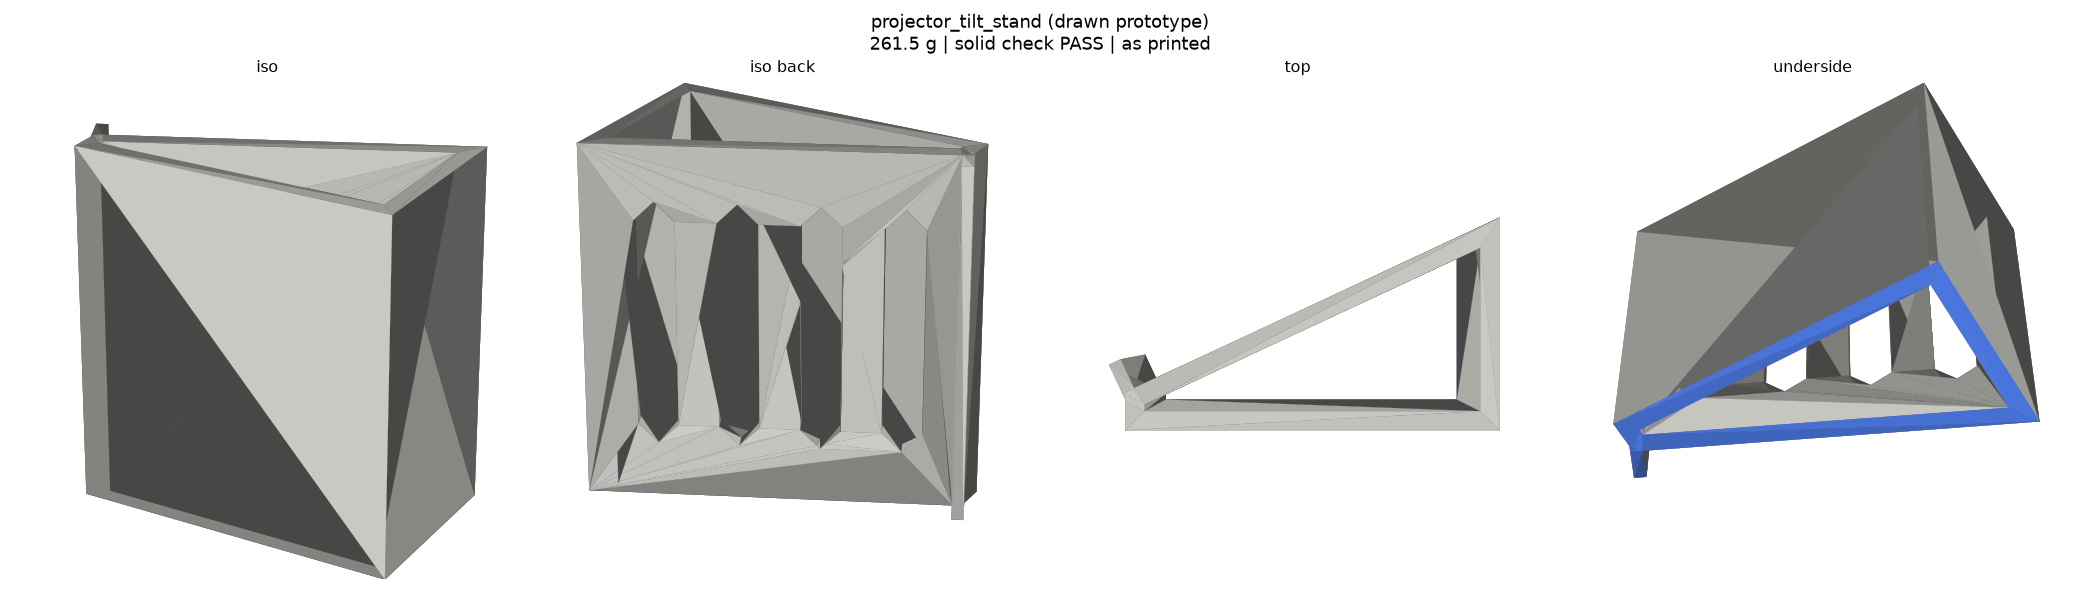
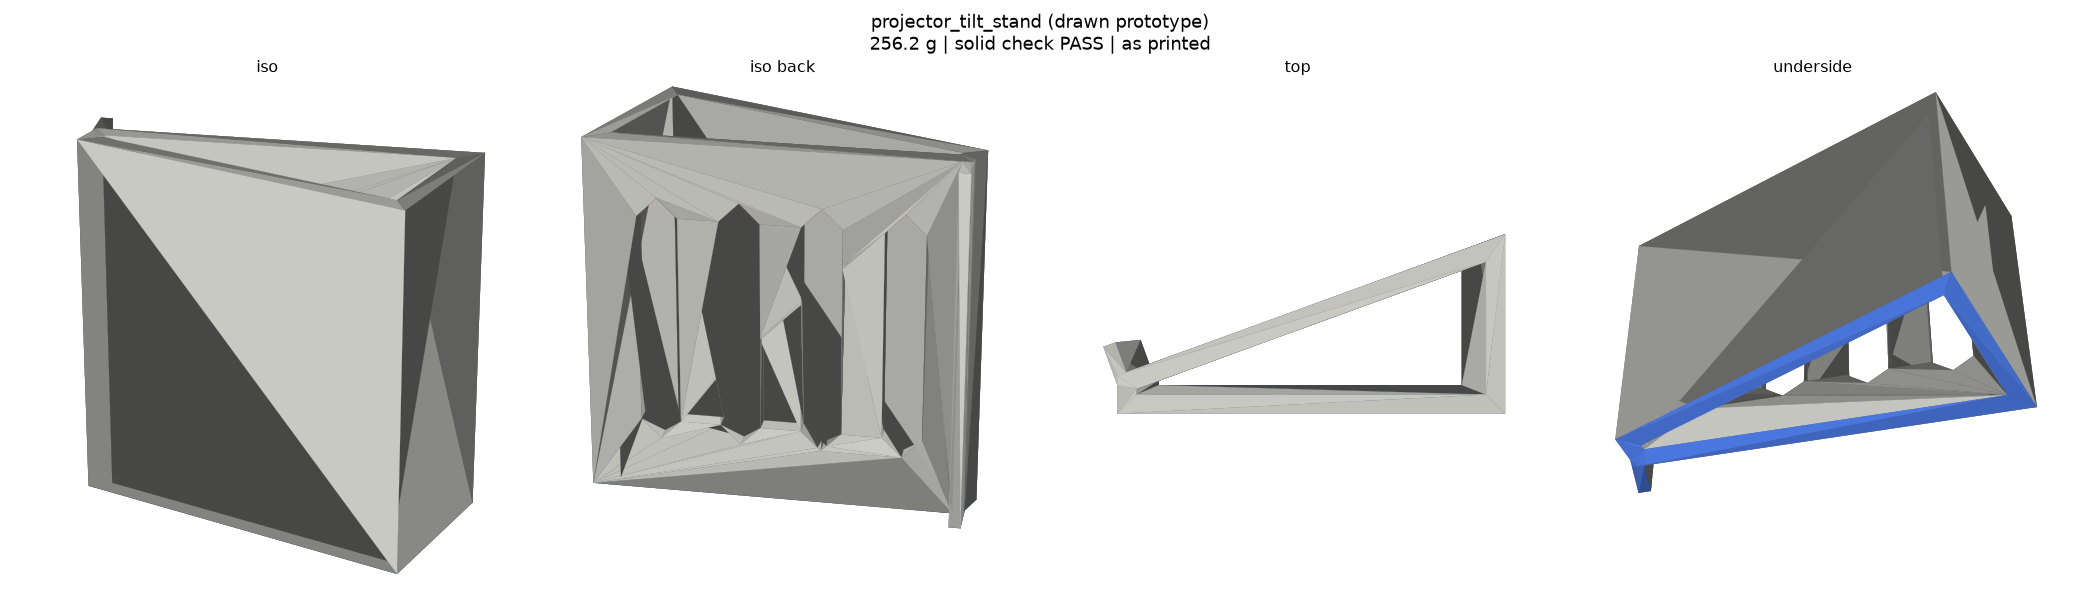
projector tilt stand: 20 deg (was 25)

diff --git a/parts/projector_tilt_stand/make.py b/parts/projector_tilt_stand/make.py
@@ -1,12 +1,12 @@
-"""Projector tilt stand: holds the S2-TEK / HOMPOW mini projector (Amazon B0F43Q5B9K; Windows reports the projector's display as "S2-TEK") tilted up 25 deg (Spark 24 Nov).
+"""Projector tilt stand: holds the S2-TEK / HOMPOW mini projector (Amazon B0F43Q5B9K; Windows reports the projector's display as "S2-TEK") tilted up 20 deg (Spark 24 Nov).
 Drawn: python parts/projector_tilt_stand/make.py writes print/projector_tilt_stand.stl (and the viewing mesh and preview).
 Projector (C from the listing, same as parts/projector_stand): 124.5 x 124.5 x 53.3 mm, 640 g, lens ring on one face (the HIGH end here), side vent grille and ports on side faces, speaker grille on top.
-One part, one wedge: a hollow triangular frame (6 mm strips: base, back wall at the high end, 25 deg deck) 130 wide, 130 along the slope.
+One part, one wedge: a hollow triangular frame (6 mm strips: base, back wall at the high end, 20 deg deck) 130 wide, 130 along the slope.
 Everything near the projector stays open: the frame is open at both sides (side vents and ports), the deck has four 14 mm slots (45 deg pointed ends) (a bottom vent or foot is never covered), the stop lip runs the full width
 at the LOW (rear, away from the lens) edge, where the projector would slide (a gap in it would be an unsupported overhang when printed on its side); cables leave through the open sides. The lens end is free.
 Hand calc: deck load 6.4 N spread on four 16 mm bars across 130: bending of a 6 x 16 bar over 90 mm = 6.4/4 N x 90 / 4 = 36 Nmm against 96 mm3 section: 0.4 MPa (PCTG ~45): margin >100x.
-Slide: the 25 deg slope needs mu > tan 25 = 0.47 to hold on friction alone (rubber feet on PCTG ~0.6, but not trusted): the lip, 10 mm tall, takes the whole 2.7 N downslope component.
-Stability: CG 40 mm above the base, 62 mm from the low edge to the CG: tips at atan(60/40) = 56 deg; base 130 x 118 is wider than the projector.
+Slide: the 20 deg slope needs mu > tan 20 = 0.36 to hold on friction alone (rubber feet on PCTG ~0.6, but not trusted): the lip, 10 mm tall, takes the whole 2.2 N downslope component.
+Stability: CG 40 mm above the base, 62 mm from the low edge to the CG: tips at atan(60/40) = 56 deg (lower CG at 20 deg: more stable); base 130 x 118 is wider than the projector.
 Print: ON ITS SIDE (a triangular cheek face down, 130 tall in z): every layer is the same outline, so no supports and no overhangs; the deck slots bridge 14 mm only
 (layer 0.2, 4 walls, 15 % infill, PCTG). Fits the A1 mini plate (118 x 77 footprint x 130)."""
 import math, os, sys
@@ -17,7 +17,7 @@ from shapely import affinity
 import numpy as np
 import trimesh
 
-TILT = math.radians(25.0)
+TILT = math.radians(20.0)
 W = 130.0                      # width (z as printed)
 SL = 130.0                     # deck length along the slope (projector 124.5)
 T = 6.0                        # strip thickness
@@ -48,4 +48,4 @@ for k in range(4):                                  # slot ends are 45 deg point
     solid = boolean(solid, cut, "-")
 view = solid.copy()
 view.apply_transform(trimesh.transformations.rotation_matrix(math.pi / 2, [1, 0, 0])); view.apply_translation([0, W / 2, 0])
-save("projector_tilt_stand", solid, view, "on its side, no supports; tilt 25 deg, lip at the low edge, deck 4 slots")
+save("projector_tilt_stand", solid, view, "on its side, no supports; tilt 20 deg, lip at the low edge, deck 4 slots")
